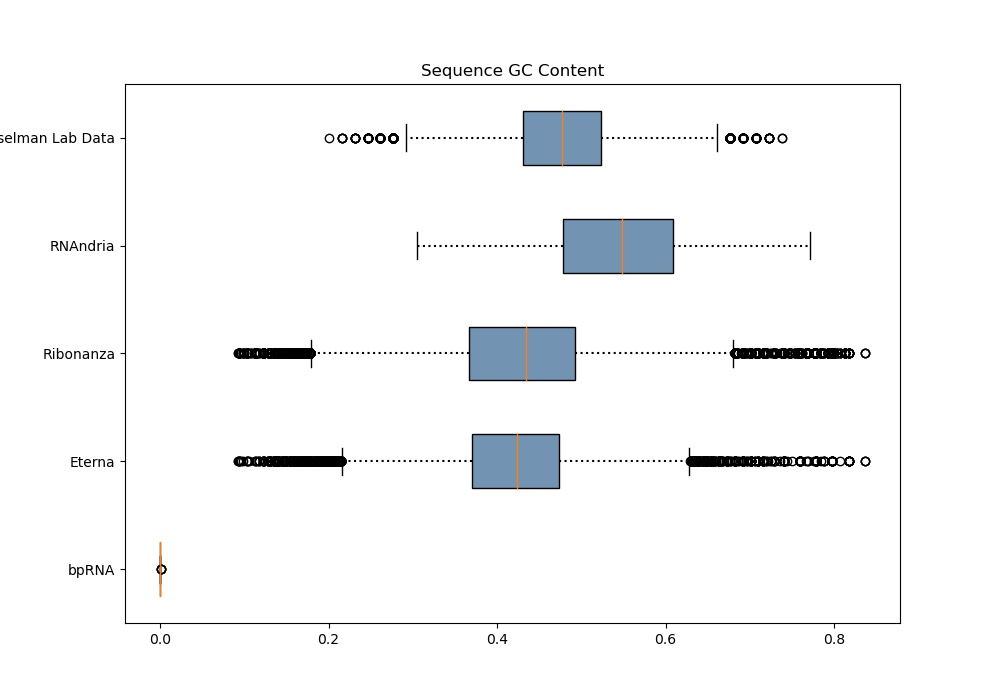
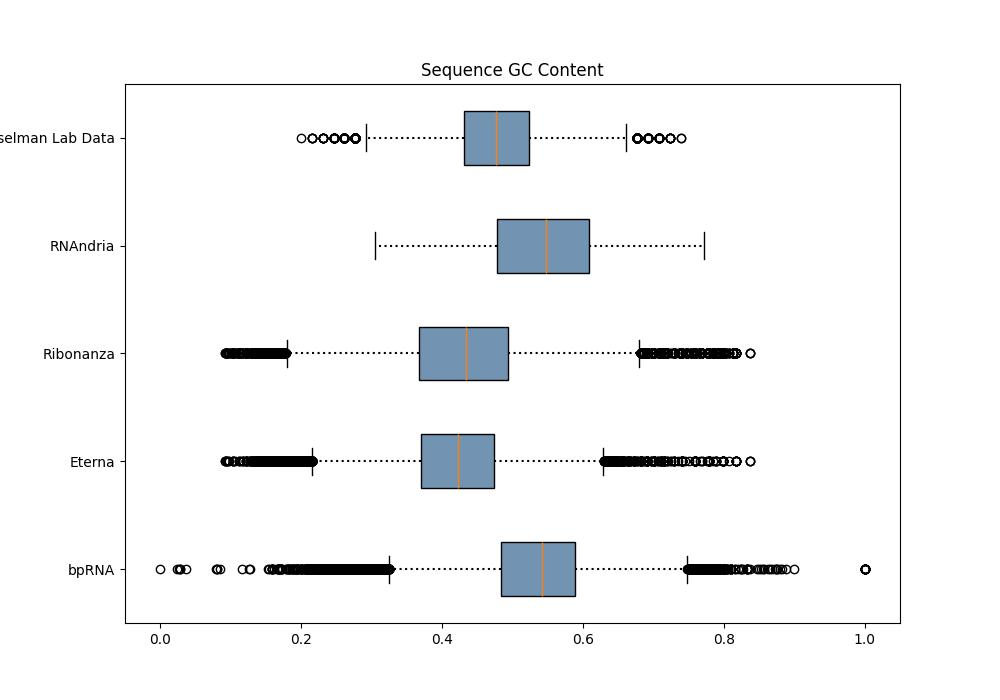
Updating/making some figures

diff --git a/pipelines/describe_raw_data/create_plots.py b/pipelines/describe_raw_data/create_plots.py
@@ -8,7 +8,7 @@ desc_dir = "/common/yesselmanlab/ewhiting/data/descriptions"
 
 all_files = os.listdir(desc_dir)
 
-ln_files = [f for f in all_files if f.endswith("legnths.txt")]
+ln_files = [f for f in all_files if f.endswith("lengths.txt")]
 gc_files = [f for f in all_files if f.endswith("gc_content.txt")]
 
 datasets = [
@@ -50,7 +50,8 @@ for ds in datasets:
     ln_data = ln_file.readlines()
     ln_file.close()
     ln_data = [int(d.strip()) for d in ln_data]
-    lens[ds] = ln_data
+    if ds != "ydata":
+        lens[ds] = ln_data
 
     gc_data = gc_file.readlines()
     gc_file.close()
@@ -67,7 +68,8 @@ f.close()
 
 all_len_data = []
 for s in lens:
-    all_len_data.append(lens[s])
+    if s != "ydata":
+        all_len_data.append(lens[s])
 
 fig = plt.figure(figsize =(10, 7))
 ax = fig.add_subplot(111)
@@ -80,7 +82,7 @@ for p in bp["boxes"]:
 for whisker in bp['whiskers']:
     whisker.set(color ='#000000', linewidth = 1.5, linestyle =":")
 
-ax.set_yticklabels(pretty_names)
+ax.set_yticklabels([p for p in pretty_names if p != "Yesselman Lab Data"])
 plt.title("Sequence Lengths")
 
 plt.savefig(fname="sequence_lengths.jpg", format="jpg")

diff --git a/pipelines/describe_raw_data/bprna.py b/pipelines/describe_raw_data/bprna.py
@@ -1,6 +1,6 @@
 import os
 
-sequence_data_path = "/common/yesselmanlab/ewhiting/data/bprna/dbnFiles"
+sequence_data_path = "/work/yesselmanlab/ewhiting/data/bprna/dbnFiles"
 
 dbn_files = os.listdir(sequence_data_path)
 dbn_files = [f for f in dbn_files if f.endswith("dbn")]
@@ -31,7 +31,7 @@ for sf in dbn_files:
         print(f"Working {counter}")
     data = open(f"{sequence_data_path}/{sf}")
     data = data.readlines()
-    sequence = data[-1].strip()
+    sequence = data[3].strip()
     slen = len(sequence)
     gc = get_gc_content(sequence)
     lf.write(f"{slen}\n")

diff --git a/pipelines/describe_raw_data/ribonanza.py b/pipelines/describe_raw_data/ribonanza.py
@@ -3,7 +3,7 @@ import os
 from RNAFoldAssess.models import DataPoint
 
 
-ribo_data_csv = "/common/yesselmanlab/ewhiting/data/ribonanza/rmdb_data.v1.3.0.csv"
+ribo_data_csv = "/mnt/nrdstor/yesselmanlab/ewhiting/rna_data/ribonanza/rmdb_data.v1.3.0.csv"
 f = open(ribo_data_csv)
 datapoints = f.readlines()
 f.close()
